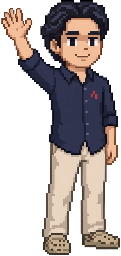
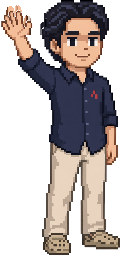
Make each companion action readable at the character's size.
Blink through a half-closed lid, scroll the laptop screen while the fingers tap, close the eyes and raise steam on a sip, lift and lower the waving hand, and nod the resting head. The body stays still between those motions, and the walk stride repeats sooner.

Changed region(s): [[0.0, 0.0, 0.2727, 0.1562], [0.3223, 0.0312, 0.4215, 0.1562]]

diff --git a/src/components/companion/CompanionActor.tsx b/src/components/companion/CompanionActor.tsx
@@ -2,7 +2,7 @@ import { useEffect, useState } from "react";
 import "./companion.css";
 
 const FRAMES: Record<string, string[]> = {
-  idle: ["/companion/front.png", "/companion/front-blink.png"],
+  idle: ["/companion/front.png", "/companion/front-half.png", "/companion/front-blink.png"],
   walk: ["/companion/walk.png", "/companion/walk-2.png"],
   focus: [
     "/companion/work.png",
@@ -13,8 +13,10 @@ const FRAMES: Record<string, string[]> = {
   break: [
     "/companion/coffee.png",
     "/companion/coffee-2.png",
+    "/companion/coffee-2.png",
     "/companion/coffee.png",
     "/companion/coffee-3.png",
+    "/companion/coffee-4.png",
   ],
   react: [
     "/companion/react.png",
@@ -26,11 +28,11 @@ const FRAMES: Record<string, string[]> = {
 };
 
 const DELAY: Record<string, number> = {
-  walk: 160,
-  focus: 140,
-  break: 320,
-  react: 130,
-  sleep: 1100,
+  walk: 180,
+  focus: 220,
+  break: 280,
+  react: 170,
+  sleep: 1500,
 };
 
 export type CompanionPose = "idle" | "walk" | "focus" | "break" | "react" | "sleep";
@@ -56,11 +58,19 @@ export default function CompanionActor({
         setStep(1);
         timer = window.setTimeout(() => {
           if (!alive) return;
-          setStep(0);
-          timer = window.setTimeout(blink, 2400 + Math.round(Math.random() * 900));
-        }, 140);
+          setStep(2);
+          timer = window.setTimeout(() => {
+            if (!alive) return;
+            setStep(1);
+            timer = window.setTimeout(() => {
+              if (!alive) return;
+              setStep(0);
+              timer = window.setTimeout(blink, 2000 + Math.round(Math.random() * 800));
+            }, 80);
+          }, 160);
+        }, 80);
       };
-      timer = window.setTimeout(blink, 1200);
+      timer = window.setTimeout(blink, 900);
       return () => {
         alive = false;
         window.clearTimeout(timer);

diff --git a/src/components/companion/companion.css b/src/components/companion/companion.css
@@ -16,10 +16,6 @@
   -webkit-user-drag: none;
 }
 
-.pet-idle .pet-body {
-  animation: pet-breathe 3.4s ease-in-out infinite;
-}
-
 .pet-focus {
   width: 176px;
   height: 168px;
@@ -36,16 +32,6 @@
 
 .pet-sleep .pet-body {
   height: 124px;
-}
-
-@keyframes pet-breathe {
-  0%,
-  100% {
-    transform: translateY(0);
-  }
-  50% {
-    transform: translateY(-2px);
-  }
 }
 
 @media (max-width: 760px) {
@@ -68,8 +54,3 @@
   }
 }
 
-@media (prefers-reduced-motion: reduce) {
-  .pet-body {
-    animation: none;
-  }
-}

diff --git a/dist-electron/main.js b/dist-electron/main.js
@@ -213,7 +213,7 @@ function he() {
     let r = e.x + k * 4;
     r <= o.x + 8 && (r = o.x + 8, k = 1);
     const s = o.x + o.width - e.width - 8;
-    r >= s && (r = s, k = -1), t.setPosition(Math.round(r), e.y), P -= 4, P <= 0 && (U = n + 5e3 + Math.round(Math.random() * 5e3)), B(!0);
+    r >= s && (r = s, k = -1), t.setPosition(Math.round(r), e.y), P -= 4, P <= 0 && (U = n + 1800 + Math.round(Math.random() * 1200)), B(!0);
   }, 140), setInterval(pe, 40));
 }
 function we() {

diff --git a/src/components/companion/ScreenCompanion.tsx b/src/components/companion/ScreenCompanion.tsx
@@ -181,7 +181,7 @@ export default function ScreenCompanion({
       left = Math.min(max, Math.max(min, left + dir * 8));
       if (left <= min || left >= max) dir = dir === 1 ? -1 : 1;
       remaining -= 8;
-      if (remaining <= 0) pausedUntil = time + 4000 + Math.round(Math.random() * 3000);
+      if (remaining <= 0) pausedUntil = time + 1400 + Math.round(Math.random() * 1000);
       setFacing(dir);
       setWalking(true);
       setSpot({ left, ready: true });

diff --git a/electron/main.ts b/electron/main.ts
@@ -342,7 +342,7 @@ function startCompanionWalk() {
     }
     companion.setPosition(Math.round(nextX), bounds.y);
     walkLeft -= 4;
-    if (walkLeft <= 0) walkPausedUntil = now + 5000 + Math.round(Math.random() * 5000);
+    if (walkLeft <= 0) walkPausedUntil = now + 1800 + Math.round(Math.random() * 1200);
     publishWalk(true);
   }, 140);
   setInterval(syncCompanionMouse, 40);
